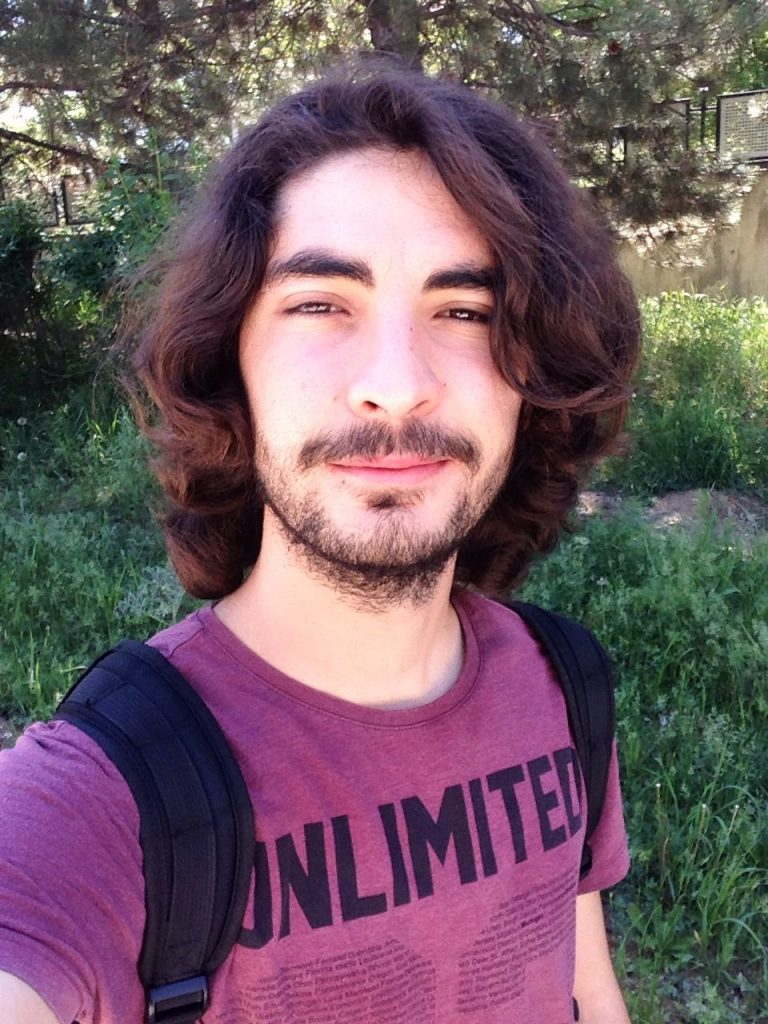
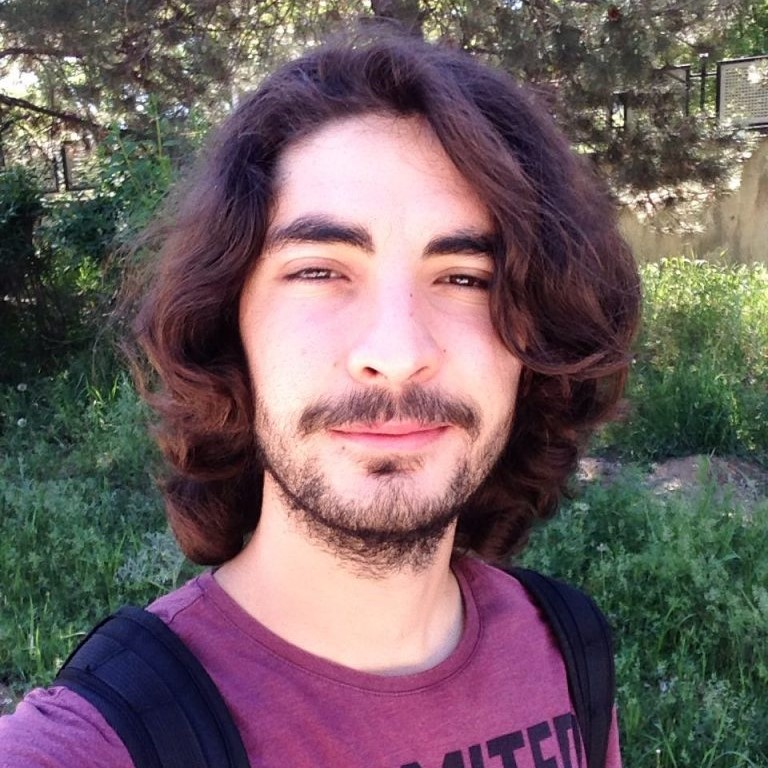
resimler boyutlandırıldı journal clup sayfası eklendi

diff --git a/_includes/head.html b/_includes/head.html
@@ -6,7 +6,7 @@
   <meta name="description" content="{% if page.excerpt %}{{ page.excerpt | strip_html | strip_newlines | truncate: 160 }}{% else %}{{ site.description }}{% endif %}">
   <link rel="stylesheet" href="{{ "/css/main.css" | prepend: site.baseurl | prepend: site.url}}">
   <link rel="canonical" href="{{ page.url | replace:'index.html','' | prepend: site.baseurl | prepend: site.url }}">
-<link rel="shortcut icon" type ="image/x-icon" href="{{ site.url }}{{ site.baseurl }}/images/favicon.png">
+  <link rel="shortcut icon" type ="image/x-icon" href="{{ site.url }}{{ site.baseurl }}/images/favicon.png">
 
 {% if jekyll.environment == 'production' %}
 {% include analytics.html %}

diff --git a/_includes/header.html b/_includes/header.html
@@ -17,6 +17,7 @@
 		<li><a href="{{ site.url }}{{ site.baseurl }}/vacancies">Vacancies</a></li>
 		<li><a href="{{ site.url }}{{ site.baseurl }}/publications">Publications</a></li>
 		<li><a href="{{ site.url }}{{ site.baseurl }}/research">Research</a></li>
+    <li><a href="{{ site.url }}{{ site.baseurl }}/research">Journal Club</a></li>
 		<li><a href="{{ site.url }}{{ site.baseurl }}/pictures">(Pics)</a></li>
 	  </ul>
 	</div>

diff --git a/_layouts/journalclup.html b/_layouts/journalclup.html
@@ -1,0 +1,6 @@
+---
+layout: default
+---
+<div id="publications" class="col-sm-12">
+  {{ content }}
+</div>

diff --git a/_pages/journalclup.md b/_pages/journalclup.md
@@ -1,0 +1,62 @@
+---
+title: "Powerlab - Journal Club"
+layout: gridlay
+excerpt: "Powerlab -- Journal Club."
+sitemap: false
+permalink: /journalclup/
+---
+
+
+# Journal Club
+
+## Highlights
+
+(For a full list see [below](#full-list) or go to [Google Scholar](https://scholar.google.ch/citations?user=TqxYWZsAAAAJ), [ResearcherID](https://www.researcherid.com/rid/D-7763-2012))
+
+{% assign number_printed = 0 %}
+{% for publi in site.data.publist %}
+
+{% assign even_odd = number_printed | modulo: 2 %}
+{% if publi.highlight == 1 %}
+
+{% if even_odd == 0 %}
+<div class="row">
+{% endif %}
+
+<div class="col-sm-6 clearfix">
+ <div class="well">
+  <pubtit>{{ publi.title }}</pubtit>
+  <img src="{{ site.url }}{{ site.baseurl }}/images/pubpic/{{ publi.image }}" class="img-responsive" width="33%" style="float: left" />
+  <p>{{ publi.description }}</p>
+  <p><em>{{ publi.authors }}</em></p>
+  <p><strong><a href="{{ publi.link.url }}">{{ publi.link.display }}</a></strong></p>
+  <p class="text-danger"><strong> {{ publi.news1 }}</strong></p>
+  <p> {{ publi.news2 }}</p>
+ </div>
+</div>
+
+{% assign number_printed = number_printed | plus: 1 %}
+
+{% if even_odd == 1 %}
+</div>
+{% endif %}
+
+{% endif %}
+{% endfor %}
+
+{% assign even_odd = number_printed | modulo: 2 %}
+{% if even_odd == 1 %}
+</div>
+{% endif %}
+
+<p> &nbsp; </p>
+
+
+## Full List
+
+{% for publi in site.data.publist %}
+
+  {{ publi.title }} <br />
+  <em>{{ publi.authors }} </em><br /><a href="{{ publi.link.url }}">{{ publi.link.display }}</a>
+
+{% endfor %}

diff --git a/_pages/team.md b/_pages/team.md
@@ -144,11 +144,7 @@ Jump to [staff](#staff), [master and bachelor students](#master-and-bachelor-stu
 {% if even_odd == 2 %}
 </div>
 {% endif %}
-
-{% if number_printed == 13 %}
-</div>
-{% endif %}
-
+{% if % }
 ## Undergraduate Students
 
 {% assign number_printed = 0 %}
